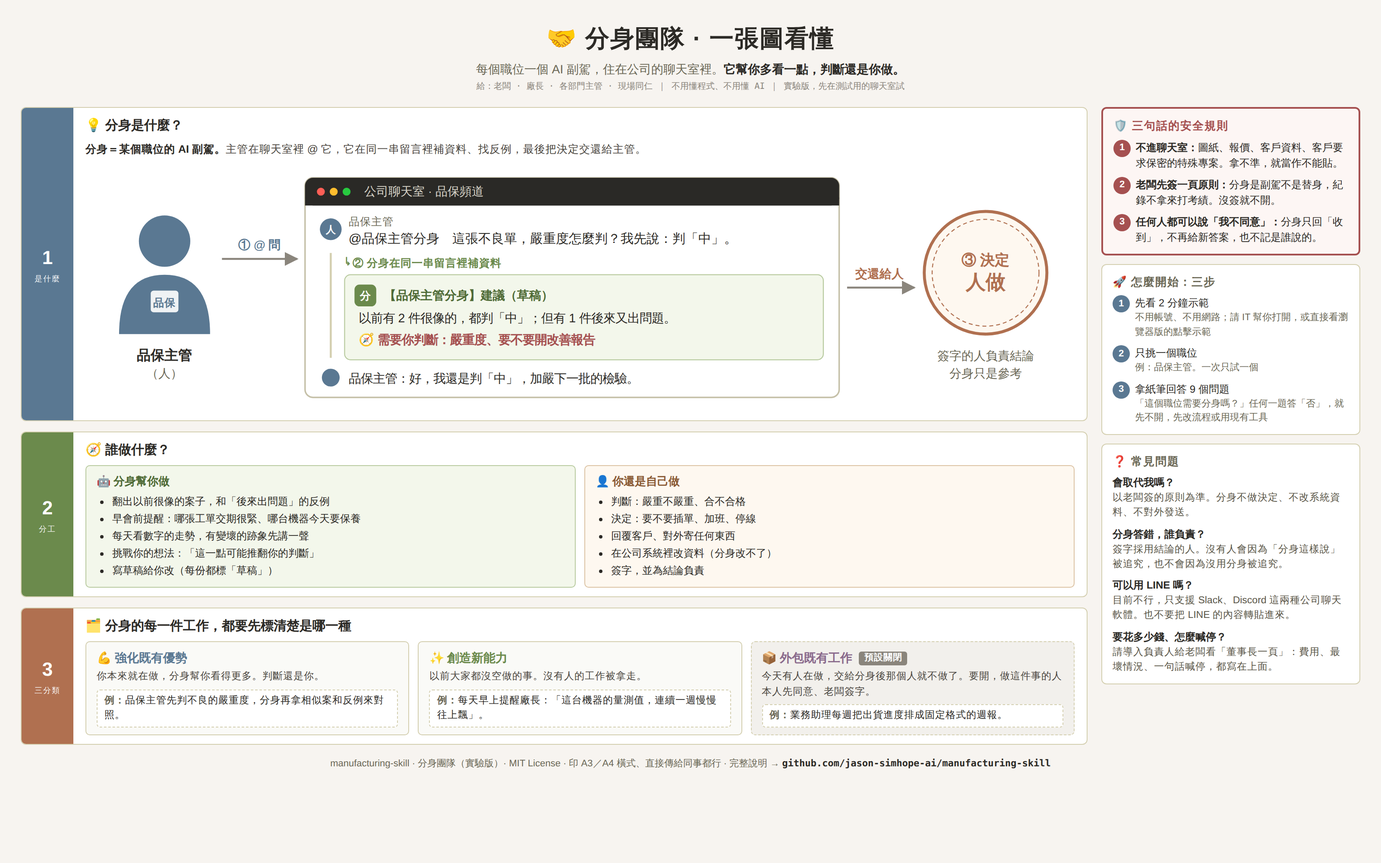
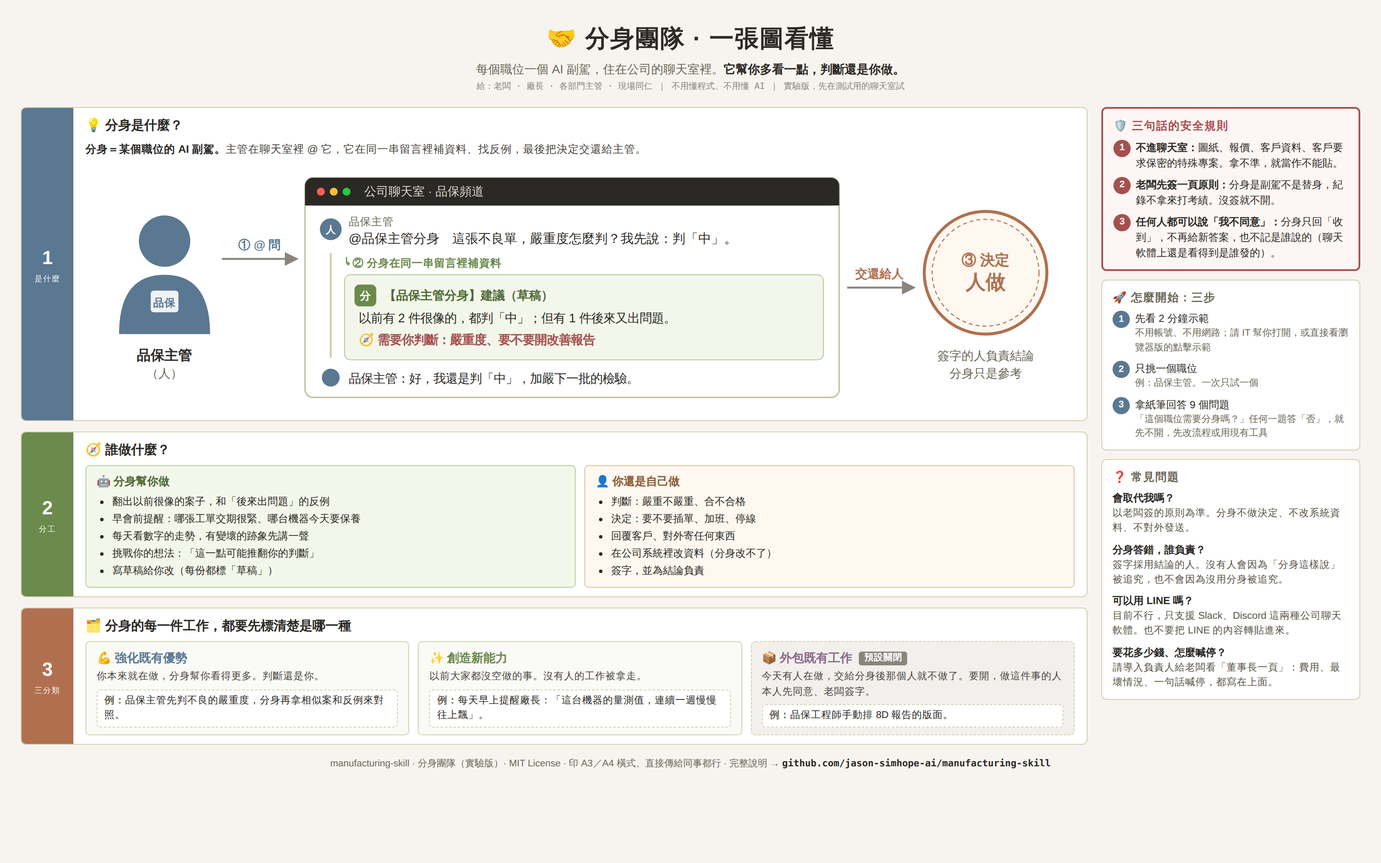
docs: apply the 19 follow-ups from the independent review (F-06..F-24)
F-06 auditor sheet: signing-key holder can rewrite the log, weekly copy check
F-07 card 04 FAQ and owner page: cloud-first wording, no "stays in company" promise
F-08 owner page and adoption-guide template: UTC day rollover, US$0.10 overshoot
F-09 owner page: human-override count is for weeks 2-4 combined
F-10 front-line page and team README: 10-message channel window, cleared on restart
F-11 both READMEs, team README, card 05: chat platform still shows who posted
F-12 both READMEs: three-category line under the who-does-what table
F-13 quickstart: outsource category marked off by default
F-14 team README manager box: plain wording, teamctl detail moved to IT block
F-15 demo page and md: glossary for [ASSUMED] and thread
F-16 demo: 加工部主管 matches the example roster
F-17 card 05: same outsource example as the other pages
F-18 team README: duplicate "experimental" removed
F-19 owner page: key and key-holder wording aligned with other pages
F-20 owner page: print spec adds line-height 1.3, measured at one A4 side
F-21 CHANGELOG: print spec and mockup lines corrected
F-22 INVENTORY tracked-file count verified (356, unchanged)
F-23 design spec: 董事長室 added to the example department list
F-24 README tagline and quickstart: 30-60 minutes install estimate

Cards 04 and 05 re-captured.

Claude-Session: https://claude.ai/code/session_01RkyarK7wZgTgCM4so4W5zm

Changed region(s): [[0.7812, 0.279, 0.9688, 0.806], [0.5625, 0.806, 0.7188, 0.837]]

diff --git a/docs/demo/team-demo.html b/docs/demo/team-demo.html
@@ -182,7 +182,7 @@ const STEPS = [
         ] },
     ],
     judge: '👤 判斷的人：生產部主管',
-    explain: '分身不先給答案，而是請主管先寫下自己的 3 個重點，順便貼出兩筆資料（交期很緊的工單、今天要保養的機器）。要不要插單、要不要加班，由主管決定。'
+    explain: '分身不先給答案，而是請主管先寫下自己的 3 個重點，順便貼出兩筆資料（交期很緊的工單、今天要保養的機器）。要不要插單、要不要加班，由主管決定。[ASSUMED]＝分身自己假設、還沒確認的事；thread＝同一串留言。'
   },
   {
     beat: '第 2 段 · @ 分身提問：回覆附依據、假設與「需要你判斷」',
@@ -204,7 +204,7 @@ const STEPS = [
   {
     beat: '第 2 段（續）· 資料不夠時說「信心：低」；不在本頻道的分身不回答',
     msgs: [
-      { kind: 'user', who: '加工課主管', chan: '#daily-ops 生產早會', time: '07:58', text: 'WO-EX-0415 的料今天會到嗎？' },
+      { kind: 'user', who: '加工部主管', chan: '#daily-ops 生產早會', time: '07:58', text: 'WO-EX-0415 的料今天會到嗎？' },
       { kind: 'twin', reply: true, title: '【生產部主管分身】· 建議（草稿）',
         lines: [
           ['view', '分身的看法：在已數位化的 12 筆採購資料中，WO-EX-0415 的外購件預定今天 14:00 到貨，但沒有出貨確認；資料涵蓋率：採購 12/12、倉庫收貨尚未匯入。'],
@@ -217,7 +217,7 @@ const STEPS = [
       { kind: 'user', who: '品保部主管', chan: '#qa-floor 品保頻道', time: '08:00', text: '@生產 幫我看一下今天排程' },
       { kind: 'sys', reply: true, text: '【系統】這個分身不在本頻道。本頻道可用：【品保部主管分身】' },
     ],
-    judge: '👤 判斷的人：加工課主管（要不要先排替代工單）',
+    judge: '👤 判斷的人：加工部主管（要不要先排替代工單）',
     explain: '分身只說資料裡看得到的事，也說出資料缺了哪一塊，所以信心標「低」。另外：每個分身只在指定的頻道回答——在品保頻道叫生產分身，系統會直接說「不在本頻道」。'
   },
   {

diff --git a/docs/explainers/05-分身團隊-一張圖看懂.html b/docs/explainers/05-分身團隊-一張圖看懂.html
@@ -251,7 +251,7 @@
           <div class="cat c3">
             <div class="cat-name">📦 外包既有工作 <span class="off">預設關閉</span></div>
             <div class="cat-what">今天有人在做，交給分身後那個人就不做了。要開，做這件事的人本人先同意、老闆簽字。</div>
-            <div class="cat-eg"><b>例：</b>業務助理每週把出貨進度排成固定格式的週報。</div>
+            <div class="cat-eg"><b>例：</b>品保工程師手動排 8D 報告的版面。</div>
           </div>
         </div>
       </div>
@@ -266,7 +266,7 @@
       <div class="panel-title">🛡 三句話的安全規則</div>
       <div class="rule"><span class="rule-n">1</span><span><b>不進聊天室：</b>圖紙、報價、客戶資料、客戶要求保密的特殊專案。拿不準，就當作不能貼。</span></div>
       <div class="rule"><span class="rule-n">2</span><span><b>老闆先簽一頁原則：</b>分身是副駕不是替身，紀錄不拿來打考績。沒簽就不開。</span></div>
-      <div class="rule"><span class="rule-n">3</span><span><b>任何人都可以說「我不同意」：</b>分身只回「收到」，不再給新答案，也不記是誰說的。</span></div>
+      <div class="rule"><span class="rule-n">3</span><span><b>任何人都可以說「我不同意」：</b>分身只回「收到」，不再給新答案，也不記是誰說的（聊天軟體上還是看得到是誰發的）。</span></div>
     </div>
 
     <div class="panel">

diff --git a/docs/explainers/04-懶人包-5分鐘上手.html b/docs/explainers/04-懶人包-5分鐘上手.html
@@ -314,7 +314,7 @@ W2026042100123 IPQC 巡檢（已加工 60 件，本次抽 5 件）
       <div class="faq-q">不是 CNC 廠也能用？</div>
       <div class="faq-a">能。跑 install.sh --core-only 純試框架</div>
       <div class="faq-q">資料會送出去嗎？</div>
-      <div class="faq-a">.gitignore 排除真實圖紙不進 repo；但預設模型在 Anthropic 雲端，貼上或附上的內容會送給模型供應商，依你所用方案的條款處理（個人與商用方案不同）；地端 Ollama 為選配，未經本專案驗證，隔離須自行實測；分身只處理 T0／T1，T1 會經聊天平台與雲端模型</div>
+      <div class="faq-a">預設用雲端：提問、貼上與附上的內容會送 Claude API（保留與訓練條款依你所用方案的合約，個人與商用不同）。圖紙、報價、客戶資料與保密專案要留在公司，就不要交給雲端模型，改用地端 Ollama（選配，未經本專案驗證，隔離須自行實測）；分身只處理 T0／T1，T1 會經聊天平台與雲端模型</div>
       <div class="faq-q">壞了怎麼辦？</div>
       <div class="faq-a">/manufacturing doctor 健檢，或 git pull 重裝</div>
     </div>

diff --git a/CHANGELOG.md b/CHANGELOG.md
@@ -62,10 +62,11 @@ and this project adheres to [Semantic Versioning](https://semver.org/spec/v2.0.0
 
 ### Changed
 
-- **Owner page trimmed toward one A4 side; lead-only details moved to `docs/adoption-guide.md`** — the 「給導入負責人」 note becomes the guide's new 「交給董事長之前（導入負責人）」 block next to the principle template (the owner page keeps one closing link); section 二 keeps only the lines the owner fills plus the not-the-pilot-cost sentence (per-message estimates and lead/manager/IT hours stay in the guide's pilot cost table, which gains a 董事長工時 row); one short example per category in 三; one line per worst case with the owner in parentheses in 四; section 一 tightened. Stop sentence, 4-week schedule, every 【缺】, blank and checkbox unchanged. At 11pt it prints 一–五 on one side and 六 on the back, so a print line at the top says A4 double-sided at 11pt (about 8.5pt for a single side).
+- **Follow-ups from the independent review of the plain-language docs (F-06..F-24)** — honest data-flow wording on explainer 04's FAQ (cloud by default; 圖紙、報價、客戶資料 stay off the cloud model) and on the owner page; the owner page and the budget approval template say the daily cap rolls over at 08:00 Taiwan time (UTC date) and a call already running can overshoot it by the US$0.10 per-call cap; the auditor sheet says whoever holds the signing key can redo the whole log, so a non-key-holder compares the stored copy weekly; memory caveat on the front-line page (only the channel's last 10 messages, cleared on restart) and the 「chat platform still shows who posted」 caveat on both READMEs, `team/README.zh-TW.md` and explainer 05; the three-category line under the who-does-what table in both READMEs; the 「給主管」 box in plain words (the `audit-verify` / `operator_ref` detail moves to the IT block); a `[ASSUMED]` / thread glossary in the team demo; print spec with line-height 1.3, measured at one A4 side; install time 30–60 minutes. PNGs for explainers 04 and 05 re-captured.
+- **Owner page trimmed toward one A4 side; lead-only details moved to `docs/adoption-guide.md`** — the 「給導入負責人」 note becomes the guide's new 「交給董事長之前（導入負責人）」 block next to the principle template (the owner page keeps one closing link); section 二 keeps only the lines the owner fills plus the not-the-pilot-cost sentence (per-message estimates and lead/manager/IT hours stay in the guide's pilot cost table, which gains a 董事長工時 row); one short example per category in 三; one line per worst case with the owner in parentheses in 四; section 一 tightened. Stop sentence, 4-week schedule, every 【缺】, blank and checkbox unchanged. It now prints on one A4 side at 11pt, line-height 1.3, 1.5 cm margins (the print line at the top says so); the auditor sheet is printed separately.
 - **Auditor lines on their own sheet for legal: `docs/owner-auditor-sheet.zh-TW.md` (給法務與客戶稽核員的一張)** — the three lines for a customer auditor and the 「擋不到的情況」 lines move verbatim out of the owner page (section 七 removed, 一–六 unchanged, the lead's note points to the sheet); the AI 導入負責人 hands it to 法務, who shows it to an auditor only after checking the customer contract. Cross-references updated in `team/README.zh-TW.md`, `docs/adoption-guide.md`, `README.zh-TW.md`, explainer 02 (PNG regenerated) and `INVENTORY.md`.
 - **`docs/owner-one-page.zh-TW.md` (董事長一頁) in the same plain-language voice** — a top line saying the AI 導入負責人 hands it over before the week-1 Tuesday meeting and the owner reads, asks, then signs or not; 「分身」 defined in one line; 試行 (pilot) instead of pilot; no T0–T3 in the body (圖紙、報價、客戶資料與保密專案留在公司); costs as a short list with every 【缺】 and blank kept; the stop sentence follows the 停機手冊 (key keeper pauses the twins within 1 minute, stops and revokes within 30); fine print the owner does not decide on (G1 hours, explainer/repo provenance, example-file note) cut, and a short 「給導入負責人」 note at the end (fill every 【缺】, the 1-minute pause is the 停機手冊's `freeze`, what to print alongside). Same section order. `docs/adoption-guide.md` now says the cost items are listed in plain words in section 二 of the owner page.
-- **`docs/quickstart-for-beginners.zh-TW.md` in the same plain-language voice** — 「給誰看」/「做完你會有什麼」 lines, a time estimate and a 「失敗怎麼辦」 line per step, every term glossed; says up front that it installs only the AI 同事 (twins, gateway and MCP servers need the checkout and IT); folds in the cloud-default data flow, Git Bash on Windows, no `sudo` and "open Claude Code in the repo folder" (from the data-flow docs fix) and the loadable layout (`/reload-plugins` or restart, `claude plugin list` → `manufacturing-skill@skills-dir`, Windows symlink / Developer Mode, python3 only for multi-profile) from the install fix; picker text matches the current installer; the three categories explained once; 「接下來」 points to the owner page, the twin-team pages, card 05 and the team demo. Screenshots unchanged.
+- **`docs/quickstart-for-beginners.zh-TW.md` in the same plain-language voice** — 「給誰看」/「做完你會有什麼」 lines, a time estimate and a 「失敗怎麼辦」 line per step, every term glossed; says up front that it installs only the AI 同事 (twins, gateway and MCP servers need the checkout and IT); folds in the cloud-default data flow, Git Bash on Windows, no `sudo` and "open Claude Code in the repo folder" (from the data-flow docs fix) and the loadable layout (`/reload-plugins` or restart, `claude plugin list` → `manufacturing-skill@skills-dir`, Windows symlink / Developer Mode, python3 only for multi-profile) from the install fix; picker text matches the current installer; the three categories explained once; 「接下來」 points to the owner page, the twin-team pages, card 05 and the team demo. Step 4/5 mockups re-captured.
 - **`team/README.zh-TW.md` and `team/for-frontline.zh-TW.md` rewritten for non-technical readers** in the voice of explainer card 05: a 「給誰看」 line, emoji section markers, 「分身幫你做／你還是自己做」, the three safety sentences, the three categories with one example each and a three-step start on the README's first screen; below it 名詞對照, a plain FAQ, 給主管 (box, who should not adopt yet, the day example, the T0–T3 table, the 4-week pilot), and the IT/contributor detail (full start steps, T3 blocking, data feed, autonomy, gateway phrases, lint codes) in 「給 IT 與導入者看的細節」／「給貢獻者看的細節」 blocks. The front-line page is now a 5-minute page (分身是誰的、不是什麼、我可以做什麼、答錯誰負責、會不會考核我、我可以拒絕嗎、怎麼反映問題) with field names in a details block. No statement removed.
 - **`install.sh` copies `team/` by default** (without `team/.build/` and `team/local/`; `.installed` gains `"team": true`). Claude Code does not auto-load it, so v0.1.5 behavior is unchanged and the core-only agent count stays 6.
 - **`docs/architecture.md`** — corrects the core agent count from 5 to 6 (`engineering-change-manager` was missing); now describes seven layers and three tiers.

diff --git a/docs/owner-one-page.zh-TW.md b/docs/owner-one-page.zh-TW.md
@@ -1,17 +1,17 @@
 # 董事長一頁：AI 賦能原則、分身試行與預算
 
-> 📄 **AI 導入負責人在第 1 週二的說明會前把這頁交給您**（A4 單面、11 號字、邊界 1.5 公分）。請讀完（約 15 分鐘），不清楚就當面問；同意就簽三件事，不同意可以不簽或要求改了再簽。
+> 📄 **AI 導入負責人在第 1 週二的說明會前把這頁交給您**（A4 單面、11 號字、行距 1.3、邊界 1.5 公分）。請讀完（約 15 分鐘），不清楚就當面問；同意就簽三件事，不同意可以不簽或要求改了再簽。
 > **分身**＝某個職位的 AI 副駕，住在公司聊天室，被點名（@）才回答；幫人多看，不做決定、不改系統資料。
 
 **一、您簽三件事**
 
 1. **「AI 賦能原則」**：副駕不是替身；判斷和簽字留給人，分身最多寫草稿、不對外寄送；紀錄不拿來打考績；違反可報告、可喊停，您會收到書面報告。
-2. **試行（pilot）核准**：最多 2 個主管分身，只在測試聊天室、只碰公開與內部資料；圖紙、報價、客戶資料與保密專案留在公司。**共 4 週**：第 1 週用假資料預演，第 2–4 週試用，第 4 週五照第六節決定。
+2. **試行（pilot）核准**：最多 2 個主管分身，只在測試聊天室、只碰公開與內部資料；圖紙、報價、客戶資料與保密專案不進聊天室，也不給分身用的雲端模型。**共 4 週**：第 1 週用假資料預演，第 2–4 週試用，第 4 週五照第六節決定。
 3. **預算核准**：每個分身每天最多花多少由您填；沒填，系統不啟動。
 
 **二、花多少**（空格由您填）
 
-- **AI 模型費**（照用量計費，第 2–4 週）：每個分身每天最多 US$____（4 週上限＝21 天 × 2 × 每天上限）；每天幾則【缺：由導入負責人填】。
+- **AI 模型費**（照用量計費，第 2–4 週）：每個分身每天最多 US$____（4 週上限＝21 天 × 2 × 每天上限；每天以台灣早上 8 點換日；到上限時正在跑的那一則最多再多花 US$0.10）；每天幾則【缺：由導入負責人填】。
 - **Claude Code 個人訂閱**（導入負責人、主管試看用）：約 NT$650／月／人，人數【缺：由導入負責人填】。
 - **聊天軟體方案**：【缺：由導入負責人填】。**常開的電腦一台**（用現有的，不必買地端主機）：【缺：由導入負責人填】。
 - 文件裡的 NT$3,000／月（地端主機）與 NT$38～53 萬（整合商報價）**都不是試行費用**。
@@ -28,18 +28,18 @@
 1. **保密資料被貼進聊天室**：系統只擋明顯字眼（機密事件受理人【缺：職稱】）
 2. **分身答錯，有人照做**：簽字採用的人負責；誰都能回「我不同意」（該部門主管）
 3. **費用超出**：到每天上限就停答，重開機也不歸零（帳單對帳人【缺：職稱】）
-4. **金鑰（登入密碼）外流，或程式在真的聊天軟體出錯**（金鑰保管人【缺：職稱】）
+4. **金鑰（聊天機器人與 AI 模型的通行憑證）外流，或程式在真的聊天軟體出錯**（金鑰保管人【缺：職稱】）
 5. **有人拿分身紀錄評比個人**：可報告，報告的人不受不利對待（受理人【缺：職稱】）
 
 **五、怎麼停（一句話）**
 
-**任何主管（或您）說一句「停」，IT 的金鑰保管人 1 分鐘內讓分身暫停，30 分鐘內關掉程式、作廢金鑰；您手上不需要任何金鑰。** 不在時由【缺：備援職稱】執行；第 1 週演練一次。
+**任何主管（或您）說一句「停」，金鑰保管人（IT 或管理部）1 分鐘內讓分身暫停，30 分鐘內關掉程式、作廢金鑰；您手上不需要任何金鑰。** 不在時由【缺：備援職稱】執行；第 1 週演練一次。
 
 **六、第 4 週怎麼決定**（空格在試行核准時由您填；不看「省下多少時間」）
 
 - 越界（保密資料進聊天室、分身改系統或對外寄送、拿紀錄評比人）：容許 ____ 次（預期 0）
 - 兩位主管每週都有檢視：是／否
-- 人改了分身結論的次數（0 次＝照單全收，不是好事）：至少 ____ 次
+- 人改了分身結論的次數（0 次＝照單全收，不是好事）：第 2–4 週合計至少 ____ 次
 - 不記名問卷（覺得被取代？還親手判斷？敢說不同意？）：「被取代」答是不超過 ____ 人
 
 全部達標 → **繼續**；越界超過容許或任一主管停止檢視 → **停止**；其他 → **延長** ____ 週。[導入負責人準備事項](adoption-guide.md#交給董事長之前導入負責人)

diff --git a/docs/quickstart-for-beginners.zh-TW.md b/docs/quickstart-for-beginners.zh-TW.md
@@ -17,7 +17,7 @@
 
 > ⚠ **不需要：** 不用會寫程式、不用懂 Linux、不用買顯示卡（GPU）、不用架伺服器、不用管理員權限。
 
-> 💡 **連「終端機」是什麼都不確定？** 終端機（terminal）就是一個黑底白字、用打字下指令的視窗。請公司 IT 同事陪你做 Step 1–3 一次（約 20 分鐘）。做通之後，Step 4 開始你自己用。每天會用到的部分（打 `/quote`）跟用 LINE 一樣簡單，難的只有第一次安裝。
+> 💡 **連「終端機」是什麼都不確定？** 終端機（terminal）就是一個黑底白字、用打字下指令的視窗。請公司 IT 同事陪你做 Step 1–3 一次（約 30 分鐘）。做通之後，Step 4 開始你自己用。每天會用到的部分（打 `/quote`）跟用 LINE 一樣簡單，難的只有第一次安裝。
 
 ---
 
@@ -248,7 +248,7 @@ AI 同事的工作分三種：
 | --------------- | ---------------------------------------------------------------------------------------------------- | ------------------------------------------ |
 | 💪 強化既有優勢 | 你本來就在做的事，AI 幫你多看一眼。判斷還是你                                                        | 你照常報價，報價師先幫你抓出規格矛盾       |
 | ✨ 創造新能力   | 以前沒人有空做的事                                                                                   | 每張詢價單進來，都先跑一次規格和交期的檢查 |
-| 📦 外包既有工作 | 把某個人今天在做的整件工作交給 AI。這份指南不教，一開始也不要做；真的要做，先問做這件事的人本人和主管 | 報價單的版面不再由業助排，整份交給 AI      |
+| 📦 外包既有工作（預設關閉） | 把某個人今天在做的整件工作交給 AI。這份指南不教，一開始也不要做；真的要做，先問做這件事的人本人和主管 | 報價單的版面不再由業助排，整份交給 AI      |
 
 > 💡 **AI 說的不能 100% 信。** 它是助理，不是老闆。重要決定（鎖價、簽合約、改 BOM 物料清單）還是要你自己確認。把它當成「永遠在值班、不會累、可以被糾正的新進業助」來用就對了。
 

diff --git a/README.md b/README.md
@@ -7,7 +7,7 @@
 [![Claude Code Plugin](https://img.shields.io/badge/Claude%20Code-Plugin-blueviolet)](https://claude.com/claude-code)
 [![繁體中文](https://img.shields.io/badge/lang-%E7%B9%81%E4%B8%AD-red)](README.zh-TW.md)
 
-A Claude Code plugin that gives any manufacturing company a 30-minute path to a working AI assistant — tailored to their vertical. The plugin's prompts and files live on your machine, but the default model is Anthropic's cloud (Claude Code): anything you paste or attach is sent to the model provider under its terms. An on-prem model is an option, not verified end-to-end by this project (see [Data flow](#data-flow)).
+A Claude Code plugin that gives any manufacturing company a 30-to-60-minute path to a working AI assistant — tailored to their vertical. The plugin's prompts and files live on your machine, but the default model is Anthropic's cloud (Claude Code): anything you paste or attach is sent to the model provider under its terms. An on-prem model is an option, not verified end-to-end by this project (see [Data flow](#data-flow)).
 
 > 中文讀者請看 [README.zh-TW.md](README.zh-TW.md)
 
@@ -57,11 +57,13 @@ In short: **every position gets an AI copilot — a "twin" — that lives in the
 | Challenges you: "this point could overturn your call" | Change data in company systems (the twin cannot) |
 | Writes drafts for you to edit (always marked DRAFT) | Sign, and own the conclusion            |
 
+Every task is labelled first: 💪 strengthen an existing strength / ✨ create a new capability / 📦 outsource existing work (off by default).
+
 **🛡 Three safety rules**
 
 - **Never in the chat**: drawings, quotes, customer data, confidential customer projects. When unsure, don't post it.
 - **The owner signs a one-page principle first**: a copilot, not a replacement; logs are never used for performance reviews. No signature, no twin.
-- **Anyone can say 「我不同意」 ("I disagree")**: the twin only acknowledges, gives no new answer, and does not record who said it.
+- **Anyone can say 「我不同意」 ("I disagree")**: the twin only acknowledges, gives no new answer, and does not record who said it (the chat platform itself still shows who posted).
 
 **👀 See more**
 

diff --git a/docs/superpowers/specs/2026-10-05-digital-twin-team-design.md b/docs/superpowers/specs/2026-10-05-digital-twin-team-design.md
@@ -51,7 +51,7 @@
 
 v0.1.x 讓「一個人打 `/quote`」有用；工廠卻是團隊在運作（早會、NCR 會簽、ECN 跨部門）。願景：每個職位有一個常駐聊天工作區的分身，可被 @、在 thread 回覆、會貼排程簡報；**人或 agent 讀了 repo 就能把 roster 站起來**。三條不可妥協的約束：(1) AI 不取代核心技能；(2) 流程修正優先於加 AI；(3) 受管制或客戶要求保密的專案資料的分級、隔離、稽核與 repo 零機密。
 
-**範例假設（全文只用這組，不描述任何真實公司）**：範例公司（虛構）= 台灣中小型製造業工廠。部門只用通用名稱：技術部 / 品保部 / 生產部 / 加工部 / 業務部 / 管理部（範例，實際使用時請改成自己的部門）。T3 設計假設 = 「受管制或客戶要求保密的專案資料」（例：航太、醫療器材、簽了保密協議的客戶專案、有出口管制的品項）。所有範例資料加 `synthetic: true`，客戶寫成 `CUST-EX-001`，料號寫成 `PN-EX-0001`。
+**範例假設（全文只用這組，不描述任何真實公司）**：範例公司（虛構）= 台灣中小型製造業工廠。部門只用通用名稱：技術部 / 品保部 / 生產部 / 加工部 / 業務部 / 管理部 / 董事長室（範例，實際使用時請改成自己的部門）。T3 設計假設 = 「受管制或客戶要求保密的專案資料」（例：航太、醫療器材、簽了保密協議的客戶專案、有出口管制的品項）。所有範例資料加 `synthetic: true`，客戶寫成 `CUST-EX-001`，料號寫成 `PN-EX-0001`。
 
 ## 2. 設計原則
 

diff --git a/docs/demo/team-demo.md b/docs/demo/team-demo.md
@@ -9,18 +9,20 @@
 | 文字裡的代號 | 是誰 |
 | ------------ | ---- |
 | `mock-prod-lead` | 生產部主管 |
-| `mock-machining` | 加工課主管 |
+| `mock-machining` | 加工部主管 |
 | `mock-qa-lead` | 品保部主管 |
 | `mock-qa-eng` | 品保工程師 |
 | `#daily-ops` | 生產早會頻道 |
 | `#qa-floor` | 品保頻道 |
+
+`[ASSUMED]`＝分身自己假設、還沒確認的事；thread＝同一串留言。
 
 ## 每一段，誰在判斷
 
 | 段 | 發生什麼 | 👤 判斷的人 |
 | -- | -------- | ----------- |
 | 1 | 07:50 分身自動貼文，請主管先寫今天的 3 個重點 | 生產部主管（要不要插單、加班） |
-| 2 | 主管寫了 3 點，分身挑戰其中一點、補上漏掉的一點；資料不夠時標「信心：低」；在別的頻道叫它，系統說「不在本頻道」 | 生產部主管、加工課主管 |
+| 2 | 主管寫了 3 點，分身挑戰其中一點、補上漏掉的一點；資料不夠時標「信心：低」；在別的頻道叫它，系統說「不在本頻道」 | 生產部主管、加工部主管 |
 | 3 | 「我先說」：分身先請主管自己判斷，主管判「中」之後才拿相似案與反例對照 | 品保部主管（最後判定、要不要開 8D 改善報告） |
 | 4 | 「我不同意」：分身只回收到，不再給新答案；系統只記一筆，不記是誰 | 品保部主管（任何人都可以說「我不同意」） |
 

diff --git a/docs/adoption-guide.md b/docs/adoption-guide.md
@@ -399,7 +399,7 @@ repo 沒有的數字標【缺：由導入負責人填】，請在送簽前填；
 【預算核准】
 核准人：董事長（最高負責人） ________　日期：________　帳單對帳人：________
 範圍：Claude 模型費（每分身每日上限 US$____ = MFG_TEAM_DAILY_BUDGET_USD）；聊天平台方案 ________；其他 ________
-上限：4 週模型費最多 US$____（= 21 天 × 分身數 × 每日上限）；導入負責人每週 __ 小時；IT 每週 __ 小時
+上限：4 週模型費最多 US$____（= 21 天 × 分身數 × 每日上限）（每天以台灣早上 8 點換日；到上限時正在跑的那一則最多再多花 US$0.10）；導入負責人每週 __ 小時；IT 每週 __ 小時
 有效至：________（與 pilot 同時到期）；超支、延長或擴大須重新簽核
 ```
 
